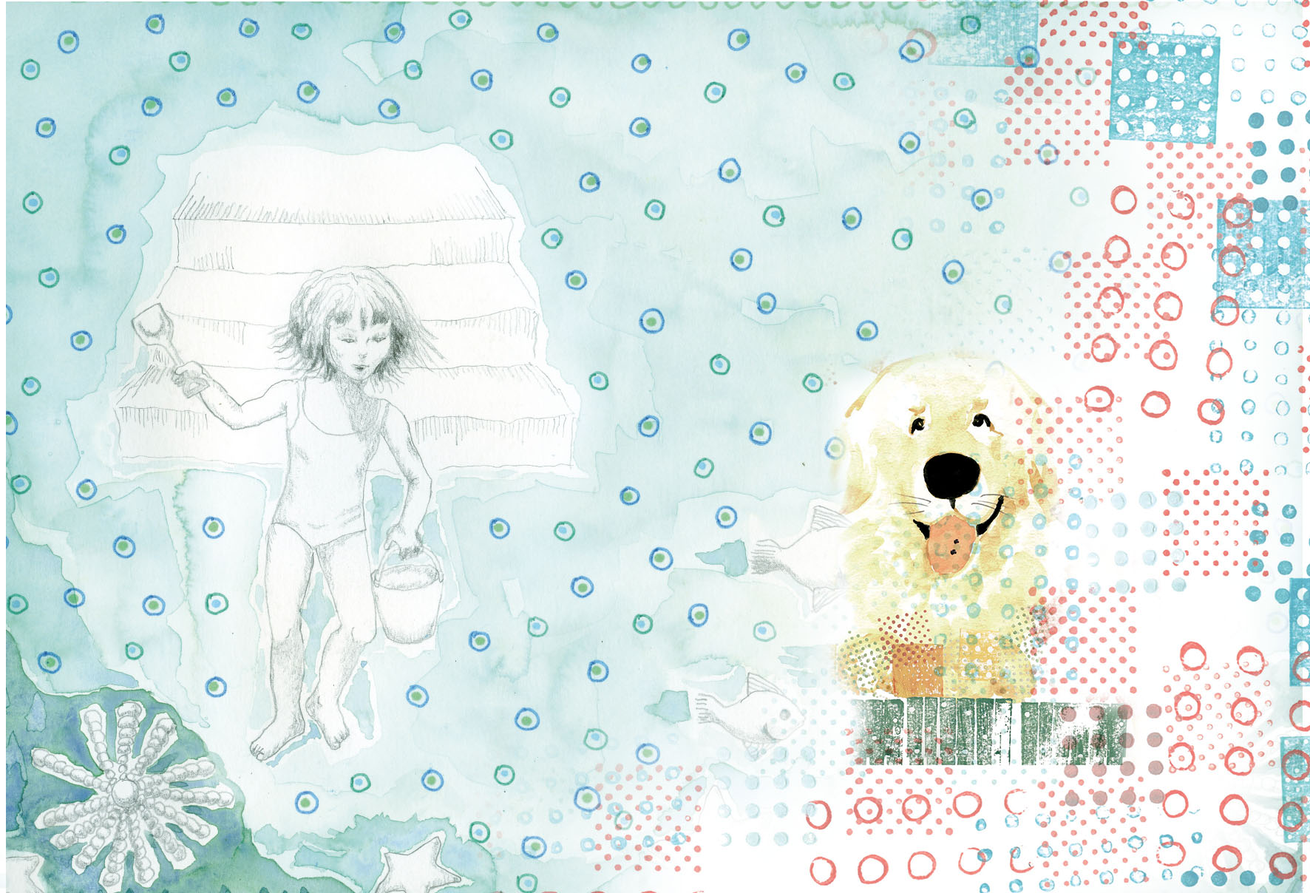
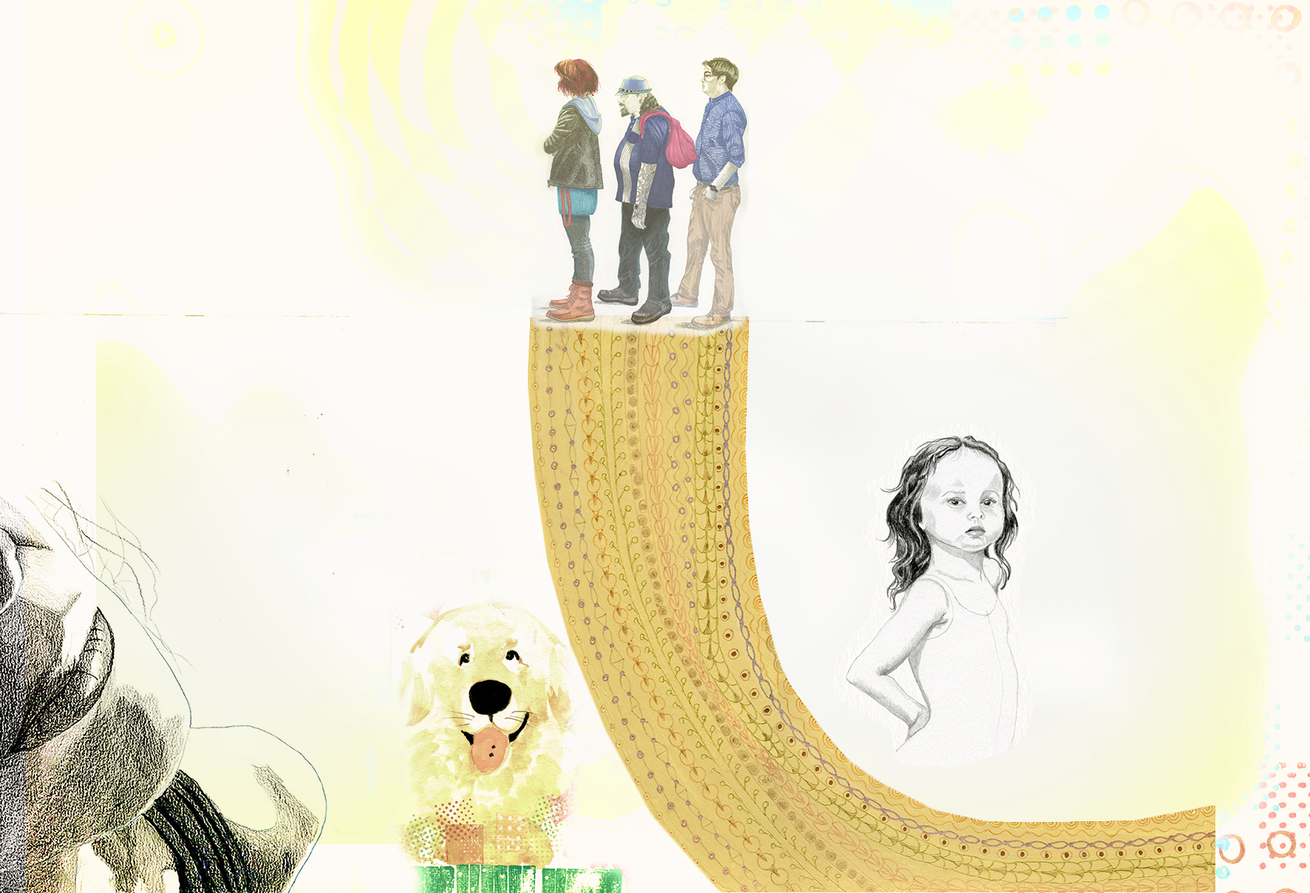
actualzacion 2020

diff --git a/index.html b/index.html
@@ -166,6 +166,16 @@
             </a>
           </div>
           <div class="col-md-6 col-lg-4">
+            <a class="portfolio-item d-block mx-auto" href="#portfolio-modal-10">
+              <div class="portfolio-item-caption d-flex position-absolute h-100 w-100">
+                <div class="portfolio-item-caption-content my-auto w-100 text-center text-white">
+                  <i class="fa fa-search-plus fa-3x"></i>
+                </div>
+              </div>
+              <img class="img-fluid" src="img/portfolio/segundo-humanos-1.jpg" alt="Segundo y sus Humanos">
+            </a>
+          </div>
+          <div class="col-md-6 col-lg-4">
             <a class="portfolio-item d-block mx-auto" href="#portfolio-modal-5">
               <div class="portfolio-item-caption d-flex position-absolute h-100 w-100">
                 <div class="portfolio-item-caption-content my-auto w-100 text-center text-white">
@@ -203,6 +213,16 @@
                 </div>
               </div>
               <img class="img-fluid" src="img/portfolio/socias-1.jpg" alt="Socias">
+            </a>
+          </div>
+          <div class="col-md-6 col-lg-4">
+            <a class="portfolio-item d-block mx-auto" href="#portfolio-modal-9">
+              <div class="portfolio-item-caption d-flex position-absolute h-100 w-100">
+                <div class="portfolio-item-caption-content my-auto w-100 text-center text-white">
+                  <i class="fa fa-search-plus fa-3x"></i>
+                </div>
+              </div>
+              <img class="img-fluid" src="img/portfolio/ella-vendra-1.jpg" alt="Ella vendrá">
             </a>
           </div>
         </div>
@@ -259,6 +279,25 @@
             <div class="col-md-6">
               <div class="embed-responsive embed-responsive-16by9">
                 <iframe width="560" height="315" src="https://www.youtube.com/embed/UmNPi5Yvfks" frameborder="0" allow="autoplay; encrypted-media" allowfullscreen></iframe>
+             </div>
+            </div>
+
+            <div class="col-md-6">
+              <div class="embed-responsive embed-responsive-16by9">
+                <iframe width="560" height="315" src="https://www.youtube.com/embed/L78OG7IMeMg" frameborder="0" allow="autoplay; encrypted-media" allowfullscreen></iframe>
+             </div>
+            </div>
+        </div>
+        <div class="row">&nbsp;</div> 
+        <div class="row">
+            <div class="col-md-6">
+              <div class="embed-responsive embed-responsive-16by9">
+                <iframe width="560" height="315" src="https://www.youtube.com/embed/dqt0o7FjbnY" frameborder="0" allow="autoplay; encrypted-media" allowfullscreen></iframe>
+             </div>
+            </div>
+            <div class="col-md-6">
+              <div class="embed-responsive embed-responsive-16by9">
+                <iframe width="560" height="315" src="https://www.youtube.com/embed/noiGcKS0Q6o" frameborder="0" allow="autoplay; encrypted-media" allowfullscreen></iframe>
              </div>
             </div>
 
@@ -402,10 +441,10 @@
               <img class="img-fluid mb-5 border border-dark" src="img/portfolio/segundo-4.jpg" alt="Ellos antes tenían una maceta">
               <img class="img-fluid mb-5 border border-dark" src="img/portfolio/segundo-5.jpg" alt="maceta">
               <h2 class="text-secondary mb-0">La serie de Segundo</h2>
-              <p class="mb-5" style="text-align: left">Segundo es una serie de cinco libros para chicos entre dos y nueve años de edad.<br> La serie tiene como protagonista a un cachorro de Golden Retriever, que, de hecho, es mi perro.<br>Los libros que componen la serie son: “Segundo”, “Las cuatro estaciones de Segundo”, “Segundo y sus amigos” y “Segundo y su familia”. Estoy trabajando en el quinto libro de la serie ,”Segundo y sus humanos”.<br>Todas las historias están contadas desde el punto de vista que el cachorro tiene del mundo que lo rodea. Esto se muestra en el texto, así como también en la manera en la cual están ilustradas las escenas.<br>Las historias son graciosas y conmovedoras. Todos los libros de la serie contienen una foto real de Segundo en el colofón.<br>Los libros pueden ser leídos en casa o tambien ser usados con propósitos educativos ya que abarcan temas diversos como cantidades, numeración, similitudes y diferencias, las cuatro estaciones, relaciones familiares, cuidado de la salud, la amistad y hay uno especialmente dedicado al tema de la adopción. Todos los libros tienen una versión en español y en inglés.
+              <p class="mb-5" style="text-align: left">Segundo es una serie de cinco libros para chicos entre dos y nueve años de edad.<br> La serie tiene como protagonista a un cachorro de Golden Retriever, que, de hecho, es mi perro.<br>Los libros que componen la serie son: “Segundo”, “Las cuatro estaciones de Segundo”, “Segundo y sus amigos”, “Segundo y su familia” y ”Segundo y sus Humanos”<br>Todas las historias están contadas desde el punto de vista que el cachorro tiene del mundo que lo rodea. Esto se muestra en el texto, así como también en la manera en la cual están ilustradas las escenas.<br>Las historias son graciosas y conmovedoras. Todos los libros de la serie contienen una foto real de Segundo en el colofón.<br>Los libros pueden ser leídos en casa o tambien ser usados con propósitos educativos ya que abarcan temas diversos como cantidades, numeración, similitudes y diferencias, las cuatro estaciones, relaciones familiares, cuidado de la salud, la amistad y hay uno especialmente dedicado al tema de la adopción. Todos los libros tienen una versión en español y en inglés.
               </p>
               <em><h2 class="text-secondary mb-0">Segundo Series</h2>
-              <p class="mb-5" style="text-align: left">Segundo is a series of five books about a character, a golden retriever puppy, who happens to be my own dog.<br> The books which make up the series are: “Segundo”, “Segundo’s Four Seasons”, “Segundo &amp; Friends” and “Segundo &amp; Family”. There is also a fifth book now in progress named “Segundo &amp; his Humans”.<br> All books are based on the observation of dogs’ world in real situations that happen to a puppy. All stories are told from his point of view of the world. This point of view is shown in the plot and also in the way that situations are pictured.<br> Stories are funny and heart touching. All books contain a real picture of the puppy at the end.<br> They can be used for independent reading or sharing at story time. They can even be used for educational purposes as they cover different subjects such as: Counting, quantities, numbers, the four seasons, similarities and differences, description, friendship, health care, family relationships. There is one devoted to adoption as well as learning to love and care for others.<br> The age group can go from two, to eight/nine years old. All books have a Spanish and an English version.
+              <p class="mb-5" style="text-align: left">Segundo is a series of five books about a character, a golden retriever puppy, who happens to be my own dog.<br> The books which make up the series are: “Segundo”, “Segundo’s Four Seasons”, “Segundo &amp; Friends”, “Segundo &amp; Family” and “Segundo &amp; his Humans”.<br> All books are based on the observation of dogs’ world in real situations that happen to a puppy. All stories are told from his point of view of the world. This point of view is shown in the plot and also in the way that situations are pictured.<br> Stories are funny and heart touching. All books contain a real picture of the puppy at the end.<br> They can be used for independent reading or sharing at story time. They can even be used for educational purposes as they cover different subjects such as: Counting, quantities, numbers, the four seasons, similarities and differences, description, friendship, health care, family relationships. There is one devoted to adoption as well as learning to love and care for others.<br> The age group can go from two, to eight/nine years old. All books have a Spanish and an English version.
               </p></em>
               <a class="btn btn-primary btn-lg rounded-pill portfolio-modal-dismiss" href="#">
                 <i class="fa fa-times"></i>
@@ -439,10 +478,10 @@
               <img class="img-fluid mb-5 border border-dark" src="img/portfolio/segundo-flia-4.jpg" alt="Philips scolds me">
               <img class="img-fluid mb-5 border border-dark" src="img/portfolio/segundo-flia-5.jpg" alt="y ahora somos más">
               <h2 class="text-secondary mb-0">La serie de Segundo</h2>
-              <p class="mb-5" style="text-align: left">Segundo es una serie de cinco libros para chicos entre dos y nueve años de edad.<br> La serie tiene como protagonista a un cachorro de Golden Retriever, que, de hecho, es mi perro.<br>Los libros que componen la serie son: “Segundo”, “Las cuatro estaciones de Segundo”, “Segundo y sus amigos” y “Segundo y su familia”. Estoy trabajando en el quinto libro de la serie ,”Segundo y sus humanos”.<br>Todas las historias están contadas desde el punto de vista que el cachorro tiene del mundo que lo rodea. Esto se muestra en el texto, así como también en la manera en la cual están ilustradas las escenas.<br>Las historias son graciosas y conmovedoras. Todos los libros de la serie contienen una foto real de Segundo en el colofón.<br>Los libros pueden ser leídos en casa o tambien ser usados con propósitos educativos ya que abarcan temas diversos como cantidades, numeración, similitudes y diferencias, las cuatro estaciones, relaciones familiares, cuidado de la salud, la amistad y hay uno especialmente dedicado al tema de la adopción. Todos los libros tienen una versión en español y en inglés.
+              <p class="mb-5" style="text-align: left">Segundo es una serie de cinco libros para chicos entre dos y nueve años de edad.<br> La serie tiene como protagonista a un cachorro de Golden Retriever, que, de hecho, es mi perro.<br>Los libros que componen la serie son: “Segundo”, “Las cuatro estaciones de Segundo”, “Segundo y sus amigos”, “Segundo y su familia” y ”Segundo y sus Humanos”. <br>Todas las historias están contadas desde el punto de vista que el cachorro tiene del mundo que lo rodea. Esto se muestra en el texto, así como también en la manera en la cual están ilustradas las escenas.<br>Las historias son graciosas y conmovedoras. Todos los libros de la serie contienen una foto real de Segundo en el colofón.<br>Los libros pueden ser leídos en casa o tambien ser usados con propósitos educativos ya que abarcan temas diversos como cantidades, numeración, similitudes y diferencias, las cuatro estaciones, relaciones familiares, cuidado de la salud, la amistad y hay uno especialmente dedicado al tema de la adopción. Todos los libros tienen una versión en español y en inglés.
               </p>
               <em><h2 class="text-secondary mb-0">Segundo Series</h2>
-              <p class="mb-5" style="text-align: left">Segundo is a series of five books about a character, a golden retriever puppy, who happens to be my own dog.<br> The books which make up the series are: “Segundo”, “Segundo’s Four Seasons”, “Segundo &amp; Friends” and “Segundo &amp; Family”. There is also a fifth book now in progress named “Segundo &amp; his Humans”.<br> All books are based on the observation of dogs’ world in real situations that happen to a puppy. All stories are told from his point of view of the world. This point of view is shown in the plot and also in the way that situations are pictured.<br> Stories are funny and heart touching. All books contain a real picture of the puppy at the end.<br> They can be used for independent reading or sharing at story time. They can even be used for educational purposes as they cover different subjects such as: Counting, quantities, numbers, the four seasons, similarities and differences, description, friendship, health care, family relationships. There is one devoted to adoption as well as learning to love and care for others.<br> The age group can go from two, to eight/nine years old. All books have a Spanish and an English version.
+              <p class="mb-5" style="text-align: left">Segundo is a series of five books about a character, a golden retriever puppy, who happens to be my own dog.<br> The books which make up the series are: “Segundo”, “Segundo’s Four Seasons”, “Segundo &amp; Friends”, “Segundo &amp; Family” and “Segundo &amp; his Humans”.<br> All books are based on the observation of dogs’ world in real situations that happen to a puppy. All stories are told from his point of view of the world. This point of view is shown in the plot and also in the way that situations are pictured.<br> Stories are funny and heart touching. All books contain a real picture of the puppy at the end.<br> They can be used for independent reading or sharing at story time. They can even be used for educational purposes as they cover different subjects such as: Counting, quantities, numbers, the four seasons, similarities and differences, description, friendship, health care, family relationships. There is one devoted to adoption as well as learning to love and care for others.<br> The age group can go from two, to eight/nine years old. All books have a Spanish and an English version.
               </p></em>
               <a class="btn btn-primary btn-lg rounded-pill portfolio-modal-dismiss" href="#">
                 <i class="fa fa-times"></i>
@@ -475,10 +514,10 @@
               <img class="img-fluid mb-5 border border-dark" src="img/portfolio/segundo-amigos-4.jpg" alt="enfrento cualquier peligro">
               <img class="img-fluid mb-5 border border-dark" src="img/portfolio/segundo-amigos-5.jpg" alt="dónde está Ulises">
               <h2 class="text-secondary mb-0">La serie de Segundo</h2>
-              <p class="mb-5" style="text-align: left">Segundo es una serie de cinco libros para chicos entre dos y nueve años de edad.<br> La serie tiene como protagonista a un cachorro de Golden Retriever, que, de hecho, es mi perro.<br>Los libros que componen la serie son: “Segundo”, “Las cuatro estaciones de Segundo”, “Segundo y sus amigos” y “Segundo y su familia”. Estoy trabajando en el quinto libro de la serie ,”Segundo y sus humanos”.<br>Todas las historias están contadas desde el punto de vista que el cachorro tiene del mundo que lo rodea. Esto se muestra en el texto, así como también en la manera en la cual están ilustradas las escenas.<br>Las historias son graciosas y conmovedoras. Todos los libros de la serie contienen una foto real de Segundo en el colofón.<br>Los libros pueden ser leídos en casa o tambien ser usados con propósitos educativos ya que abarcan temas diversos como cantidades, numeración, similitudes y diferencias, las cuatro estaciones, relaciones familiares, cuidado de la salud, la amistad y hay uno especialmente dedicado al tema de la adopción. Todos los libros tienen una versión en español y en inglés.
+              <p class="mb-5" style="text-align: left">Segundo es una serie de cinco libros para chicos entre dos y nueve años de edad.<br> La serie tiene como protagonista a un cachorro de Golden Retriever, que, de hecho, es mi perro.<br>Los libros que componen la serie son: “Segundo”, “Las cuatro estaciones de Segundo”, “Segundo y sus amigos”, “Segundo y su familia” y ”Segundo y sus Humanos”. <br>Todas las historias están contadas desde el punto de vista que el cachorro tiene del mundo que lo rodea. Esto se muestra en el texto, así como también en la manera en la cual están ilustradas las escenas.<br>Las historias son graciosas y conmovedoras. Todos los libros de la serie contienen una foto real de Segundo en el colofón.<br>Los libros pueden ser leídos en casa o tambien ser usados con propósitos educativos ya que abarcan temas diversos como cantidades, numeración, similitudes y diferencias, las cuatro estaciones, relaciones familiares, cuidado de la salud, la amistad y hay uno especialmente dedicado al tema de la adopción. Todos los libros tienen una versión en español y en inglés.
               </p>
               <em><h2 class="text-secondary mb-0">Segundo Series</h2>
-              <p class="mb-5" style="text-align: left">Segundo is a series of five books about a character, a golden retriever puppy, who happens to be my own dog.<br> The books which make up the series are: “Segundo”, “Segundo’s Four Seasons”, “Segundo &amp; Friends” and “Segundo &amp; Family”. There is also a fifth book now in progress named “Segundo &amp; his Humans”.<br> All books are based on the observation of dogs’ world in real situations that happen to a puppy. All stories are told from his point of view of the world. This point of view is shown in the plot and also in the way that situations are pictured.<br> Stories are funny and heart touching. All books contain a real picture of the puppy at the end.<br> They can be used for independent reading or sharing at story time. They can even be used for educational purposes as they cover different subjects such as: Counting, quantities, numbers, the four seasons, similarities and differences, description, friendship, health care, family relationships. There is one devoted to adoption as well as learning to love and care for others.<br> The age group can go from two, to eight/nine years old. All books have a Spanish and an English version.
+              <p class="mb-5" style="text-align: left">Segundo is a series of five books about a character, a golden retriever puppy, who happens to be my own dog.<br> The books which make up the series are: “Segundo”, “Segundo’s Four Seasons”, “Segundo &amp; Friends”, “Segundo &amp; Family” and “Segundo &amp; his Humans”.<br> All books are based on the observation of dogs’ world in real situations that happen to a puppy. All stories are told from his point of view of the world. This point of view is shown in the plot and also in the way that situations are pictured.<br> Stories are funny and heart touching. All books contain a real picture of the puppy at the end.<br> They can be used for independent reading or sharing at story time. They can even be used for educational purposes as they cover different subjects such as: Counting, quantities, numbers, the four seasons, similarities and differences, description, friendship, health care, family relationships. There is one devoted to adoption as well as learning to love and care for others.<br> The age group can go from two, to eight/nine years old. All books have a Spanish and an English version.
               </p></em>
               <a class="btn btn-primary btn-lg rounded-pill portfolio-modal-dismiss" href="#">
                 <i class="fa fa-times"></i>
@@ -511,10 +550,10 @@
               <img class="img-fluid mb-5 border border-dark" src="img/portfolio/segundo-estaciones-4.jpg" alt="me gusta esconderme">
               <img class="img-fluid mb-5 border border-dark" src="img/portfolio/segundo-estaciones-5.jpg" alt="me gusta subirme">
               <h2 class="text-secondary mb-0">La serie de Segundo</h2>
-              <p class="mb-5" style="text-align: left">Segundo es una serie de cinco libros para chicos entre dos y nueve años de edad.<br> La serie tiene como protagonista a un cachorro de Golden Retriever, que, de hecho, es mi perro.<br>Los libros que componen la serie son: “Segundo”, “Las cuatro estaciones de Segundo”, “Segundo y sus amigos” y “Segundo y su familia”. Estoy trabajando en el quinto libro de la serie ,”Segundo y sus humanos”.<br>Todas las historias están contadas desde el punto de vista que el cachorro tiene del mundo que lo rodea. Esto se muestra en el texto, así como también en la manera en la cual están ilustradas las escenas.<br>Las historias son graciosas y conmovedoras. Todos los libros de la serie contienen una foto real de Segundo en el colofón.<br>Los libros pueden ser leídos en casa o tambien ser usados con propósitos educativos ya que abarcan temas diversos como cantidades, numeración, similitudes y diferencias, las cuatro estaciones, relaciones familiares, cuidado de la salud, la amistad y hay uno especialmente dedicado al tema de la adopción. Todos los libros tienen una versión en español y en inglés.
+              <p class="mb-5" style="text-align: left">Segundo es una serie de cinco libros para chicos entre dos y nueve años de edad.<br> La serie tiene como protagonista a un cachorro de Golden Retriever, que, de hecho, es mi perro.<br>Los libros que componen la serie son: “Segundo”, “Las cuatro estaciones de Segundo”, “Segundo y sus amigos”, “Segundo y su familia” y ”Segundo y sus Humanos”. <br>Todas las historias están contadas desde el punto de vista que el cachorro tiene del mundo que lo rodea. Esto se muestra en el texto, así como también en la manera en la cual están ilustradas las escenas.<br>Las historias son graciosas y conmovedoras. Todos los libros de la serie contienen una foto real de Segundo en el colofón.<br>Los libros pueden ser leídos en casa o tambien ser usados con propósitos educativos ya que abarcan temas diversos como cantidades, numeración, similitudes y diferencias, las cuatro estaciones, relaciones familiares, cuidado de la salud, la amistad y hay uno especialmente dedicado al tema de la adopción. Todos los libros tienen una versión en español y en inglés.
               </p>
               <em><h2 class="text-secondary mb-0">Segundo Series</h2>
-              <p class="mb-5" style="text-align: left">Segundo is a series of five books about a character, a golden retriever puppy, who happens to be my own dog.<br> The books which make up the series are: “Segundo”, “Segundo’s Four Seasons”, “Segundo &amp; Friends” and “Segundo &amp; Family”. There is also a fifth book now in progress named “Segundo &amp; his Humans”.<br> All books are based on the observation of dogs’ world in real situations that happen to a puppy. All stories are told from his point of view of the world. This point of view is shown in the plot and also in the way that situations are pictured.<br> Stories are funny and heart touching. All books contain a real picture of the puppy at the end.<br> They can be used for independent reading or sharing at story time. They can even be used for educational purposes as they cover different subjects such as: Counting, quantities, numbers, the four seasons, similarities and differences, description, friendship, health care, family relationships. There is one devoted to adoption as well as learning to love and care for others.<br> The age group can go from two, to eight/nine years old. All books have a Spanish and an English version.
+              <p class="mb-5" style="text-align: left">Segundo is a series of five books about a character, a golden retriever puppy, who happens to be my own dog.<br> The books which make up the series are: “Segundo”, “Segundo’s Four Seasons”, “Segundo &amp; Friends”, “Segundo &amp; Family” and “Segundo &amp; his Humans”.<br> All books are based on the observation of dogs’ world in real situations that happen to a puppy. All stories are told from his point of view of the world. This point of view is shown in the plot and also in the way that situations are pictured.<br> Stories are funny and heart touching. All books contain a real picture of the puppy at the end.<br> They can be used for independent reading or sharing at story time. They can even be used for educational purposes as they cover different subjects such as: Counting, quantities, numbers, the four seasons, similarities and differences, description, friendship, health care, family relationships. There is one devoted to adoption as well as learning to love and care for others.<br> The age group can go from two, to eight/nine years old. All books have a Spanish and an English version.
               </p></em>
               <a class="btn btn-primary btn-lg rounded-pill portfolio-modal-dismiss" href="#">
                 <i class="fa fa-times"></i>
@@ -650,6 +689,73 @@
               <img class="img-fluid mb-5 border border-dark" src="img/portfolio/socias-4.jpg" alt="mucho que hacer">
               <img class="img-fluid mb-5 border border-dark" src="img/portfolio/socias-5.jpg" alt="retarte">
 
+              <a class="btn btn-primary btn-lg rounded-pill portfolio-modal-dismiss" href="#">
+                <i class="fa fa-times"></i>
+                Close Project</a>
+            </div>
+          </div>
+        </div>
+      </div>
+    </div>
+
+
+    <!-- Portfolio Modal 9 -->
+    <div class="portfolio-modal mfp-hide" id="portfolio-modal-9">
+      <div class="portfolio-modal-dialog bg-white">
+        <a class="close-button d-none d-md-block portfolio-modal-dismiss" href="#">
+          <i class="fa fa-3x fa-times"></i>
+        </a>
+        <div class="container text-center">
+          <div class="row">
+            <div class="col-lg-8 mx-auto">
+              <h2 class="text-secondary text-uppercase mb-0">Ella vendrá</h2>
+              <br>
+              <img class="img-fluid mb-5" src="img/portfolio/ella-vendra-1.jpg" alt="ella vendrá">
+              
+              <p class="mb-5" style="text-align: left">Mientras los sentidos se despliegan, el alma encuentra su lugar. Ella espera. </p>
+
+              <em><h2 class="text-secondary mb-0">She will come</h2>
+              <p class="mb-5" style="text-align: left">As the tenses unfold, the soul finds its place. She awaits.</p></em>
+              <img class="img-fluid mb-5 border border-dark" src="img/portfolio/ella-vendra-2.jpg" alt="camino, sonrío">
+              <img class="img-fluid mb-5 border border-dark" src="img/portfolio/ella-vendra-3.jpg" alt="escucho">
+              <img class="img-fluid mb-5 border border-dark" src="img/portfolio/ella-vendra-4.jpg" alt="ladridos">
+
+              <a class="btn btn-primary btn-lg rounded-pill portfolio-modal-dismiss" href="#">
+                <i class="fa fa-times"></i>
+                Close Project</a>
+            </div>
+          </div>
+        </div>
+      </div>
+    </div>
+
+    <!-- Portfolio Modal 10 -->
+    <div class="portfolio-modal mfp-hide" id="portfolio-modal-10">
+      <div class="portfolio-modal-dialog bg-white">
+        <a class="close-button d-none d-md-block portfolio-modal-dismiss" href="#">
+          <i class="fa fa-3x fa-times"></i>
+        </a>
+        <div class="container text-center">
+          <div class="row">
+            <div class="col-lg-8 mx-auto">
+              <h2 class="text-secondary text-uppercase mb-0">Segundo y sus Humanos</h2>
+              <br>
+              <img class="img-fluid mb-5" src="img/portfolio/segundo-humanos-1.jpg" alt="segundo y sus humanos">
+              
+              <p class="mb-5" style="text-align: left">Segundo nos cuenta cómo lo cuidan y lo miman sus humanos: su familia, su veterinario, su paseador… todos están pendientes de él y sus necesidades. Aprendemos que los cuidados, la educación y el cariño son muy importantes para nuestros amigos peludos.</p>
+
+              <em><h2 class="text-secondary mb-0">Segundo and his Humans</h2>
+              <p class="mb-5" style="text-align: left">Segundo tells us how his humans look after him and pamper him as well: his family, his vet, his dog walker…everybody is aware of his needs. We learn that the care, education and love are very important to our furry friends.</p></em>
+              <img class="img-fluid mb-5 border border-dark" src="img/portfolio/segundo-humanos-2.jpg" alt="me bañan">
+              <img class="img-fluid mb-5 border border-dark" src="img/portfolio/segundo-humanos-3.jpg" alt="mi doctor">
+              <img class="img-fluid mb-5 border border-dark" src="img/portfolio/segundo-humanos-4.jpg" alt="me aman">
+              <img class="img-fluid mb-5 border border-dark" src="img/portfolio/segundo-humanos-5.jpg" alt="lo mejor de todo">
+              <h2 class="text-secondary mb-0">La serie de Segundo</h2>
+              <p class="mb-5" style="text-align: left">Segundo es una serie de cinco libros para chicos entre dos y nueve años de edad.<br> La serie tiene como protagonista a un cachorro de Golden Retriever, que, de hecho, es mi perro.<br>Los libros que componen la serie son: “Segundo”, “Las cuatro estaciones de Segundo”, “Segundo y sus amigos”, “Segundo y su familia” y ”Segundo y sus Humanos”.<br>Todas las historias están contadas desde el punto de vista que el cachorro tiene del mundo que lo rodea. Esto se muestra en el texto, así como también en la manera en la cual están ilustradas las escenas.<br>Las historias son graciosas y conmovedoras. Todos los libros de la serie contienen una foto real de Segundo en el colofón.<br>Los libros pueden ser leídos en casa o tambien ser usados con propósitos educativos ya que abarcan temas diversos como cantidades, numeración, similitudes y diferencias, las cuatro estaciones, relaciones familiares, cuidado de la salud, la amistad y hay uno especialmente dedicado al tema de la adopción. Todos los libros tienen una versión en español y en inglés.
+              </p>
+              <em><h2 class="text-secondary mb-0">Segundo Series</h2>
+              <p class="mb-5" style="text-align: left">Segundo is a series of five books about a character, a golden retriever puppy, who happens to be my own dog.<br> The books which make up the series are: “Segundo”, “Segundo’s Four Seasons”, “Segundo &amp; Friends”, “Segundo &amp; Family” and “Segundo &amp; his Humans”.<br> All books are based on the observation of dogs’ world in real situations that happen to a puppy. All stories are told from his point of view of the world. This point of view is shown in the plot and also in the way that situations are pictured.<br> Stories are funny and heart touching. All books contain a real picture of the puppy at the end.<br> They can be used for independent reading or sharing at story time. They can even be used for educational purposes as they cover different subjects such as: Counting, quantities, numbers, the four seasons, similarities and differences, description, friendship, health care, family relationships. There is one devoted to adoption as well as learning to love and care for others.<br> The age group can go from two, to eight/nine years old. All books have a Spanish and an English version.
+              </p></em>
               <a class="btn btn-primary btn-lg rounded-pill portfolio-modal-dismiss" href="#">
                 <i class="fa fa-times"></i>
                 Close Project</a>
